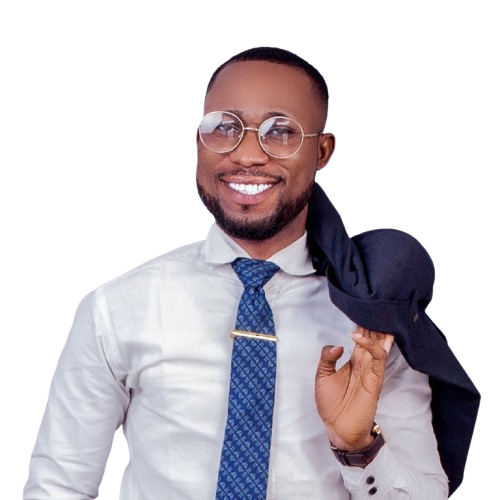
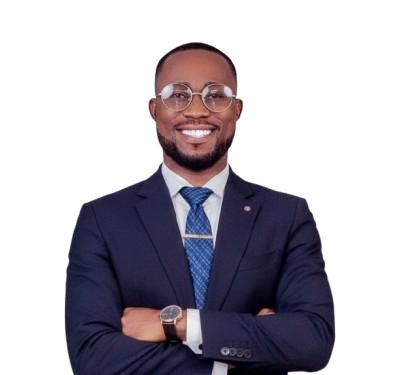
Speaker photo update

diff --git a/src/constants/index.js b/src/constants/index.js
@@ -5,7 +5,7 @@ import youtubeIcon from "../assets/youtubelogo.png";
 import whatsappIcon from "../assets/whatsapplogo.png";
 import JD from "../assets/home/Jesudamilare.png";
 import bello from "../assets/home/bello.png";
-import taiwo from "../assets/home/taiwo.jpg";
+import taiwo from "../assets/home/taiwo.png";
 import Oluwaseun from "../assets/home/oluwaseun.png";
 import simisolaA from "../assets/home/SimisolaA.png";
 import blessingD from "../assets/home/blessing-dada.png";
@@ -16,7 +16,7 @@ import VIP from "../assets/home/VIP.png";
 import VVIP from "../assets/home/VVIP.png";
 import EKSG from "../assets/home/EKSG.png";
 import Alluvium from "../assets/home/Alluvium.png";
-import HIC from "../assets/home/hic.jpg";
+import HIC from "../assets/home/hic.png";
 import tpc from "../assets/home/tpc.png";
 
 
@@ -66,11 +66,13 @@ export const SpeakerArray = [
     name: "Jesudamilare Adesegun-David",
     position: "CEO, Ennovate Lab",
     image: JD,
+    bio: "Jesudamilare JD AdesegunDavid is a Thought Alchemist and Community Transformation Strategist. He is the cofounder and CEO of Ennovate Lab, an innovation hub and startup foundry building resilient innovation ecosystems in underserved university communities across Africa.Through Qeola, he helps visionary founders craft timeless brands and digital experiences. His flagship initiative, Cognessay, has equipped over 10000 Africans including students, educators, professionals and government officials with critical and creative thinking skills since 2018.JD cofounded Children that Change the World, a nonprofit providing inclusive educational resources for underserved children. A 2011 Agronomy graduate and 2015 Teach With Africa Fellow, he bridges diverse disciplines to drive impact.Recognized on YNaijas 2019 New Establishment List, he has mentored hundreds of entrepreneurs through partnerships with GIZ, Hult Foundation, Startup Grind and others. He serves on boards including SprinNG Literary Society and DeepSpace, and holds fellowships with We Will Lead Africa and Praxis Academy Redemptive Business.Married to Temitayo, they have three boys and one girl.",
   },
   {
     name: "Blessing Dada",
     position: "Executive Director at Sarafacdi",
     image: blessingD,
+    bio: "Blessing Tunde Dada is an Educational Development Practitioner, Innovator, social entrepreneur, and digital equity advocate committed to transforming underserved communities through inclusive education and technology. He currently serves as a UNESCO SDG4 Youth and Student Network as African Representative and now High-Level Steering Committee (HLSC) Youth Leader (Global), contributing to global policy conversations on the future of education. Blessing is a 2023 Chevening Scholar and holds an MA in International Education and Development from the University of Sussex, where he championed student-centered policies benefiting over 5,000 international students. For more than six years, he has served in various leadership capacities such as OneUK, CYFI, YALI Network, GOTNI Fellow, Global Peace Chain, and many more. His work has focused on addressing systemic barriers to education, digital access, and youth empowerment. He is the founder of Slum & Rural Aid for African Child Development Initiative (SARAFACDI) and co-founder of GenexTED, an edtech initiative that leverages AI and digital tools to bridge the digital divide. Through impactful programs like Back2School, TechUpRuralGirls, and SabiLearn Ecosystem, he has reached over 20,000 children and youth with digital literacy, STEM training, scholarships, and community development opportunities.With lived experience as his driving force, Blessing is dedicated to building a world where every child, regardless of background, can learn, thrive, and access meaningful opportunities.",
   },
   {
     name: "Oladele Bello",
@@ -88,6 +90,7 @@ export const SpeakerArray = [
     name: "Awe Similoluwa",
     position: "Lawyer",
     image: simisolaA,
+    bio: "Similoluwa Awe is a Lawyer and Youth Development Practitioner with 9 years of professional excellence, purpose fulfillment and passion accomplishment. She is the founder of Hey! Teens and Twenties and a multi-award winner to attest to her all round impact in making the global goal tagged Agenda 2030 achievable.She has a background in law, specialising in legal advisory and compliance for startups and general commercial firms, real estate also with key interest in Medical Law and Ethics. Being a passionate writer, Similoluwa has written a lot of transformational write-ups for youth development and the nation's growth. She is the author of the books Writers' Love Language and Everything Ekiti, born out of her passion for her home country, which addresses history, politics, tourism, and entertainment amongst others. As a former member of the United Nations Population Funds Youth Participatory Platform, aSustainable Development Goals Champion, Member Advisory Committee for the Knowledge Transfer Network UK, African Innovation Action plan for Ekiti state, Member Wrapper Tribe of the Wrapper Network, she has been able to contribute her voice in harnessing and attaining the nation's full potential.Notable amongst her numerous awards include winning a medal of honour and recognition for her impact in Sustainable Development Goals in 2019 by Ekiti state government, the Global Strategic Leadership Award by the Salem Open University in 2025, the Freshwater African Youth Foundation Award of Recognition in 2021, the One Ekiti Award for Advocacy in 2020, One million naira 1st prize for JKF post-graduate essay in 2022 amongst others. Through her personal projects and volunteering, she has reached out and impacted not less than 6000 young persons over the years and her passion and tenacity remains unwithered.",
   },
   {
     name: "Lawrence Ekundayo",
@@ -105,6 +108,7 @@ export const SpeakerArray = [
     name: "Taiwo Ojo",
     position: "CEO/Co-Founder, Alluvium",
     image: taiwo,
+    bio: "Taiwo Ojo, was a Big Four consultant, turned technology leader, with experience going on two decades in IT Service Management, Digital transformation, and AI governance.As CEO of Alluvium, he has led some of the largest Atlassian tool consolidations, delivering agility, scale, and cost savings for global enterprises.Passionate about responsible AI, he helps organizations innovate securely while protecting sensitive data and maintaining their competitive edge in the AI-driven economy.Beyond the boardroom, he believes in the power of human connection and is always happy to exchange ideas over breakfast, lunch, or dinner.Taiwo also thrives on Philantropy. He’s President of the JayTee Ojo Foundation which uses IT and Sports as a vehicle to make the young person globally competitive.",
   },
 ];
 

diff --git a/src/components/SpeakerModal.jsx b/src/components/SpeakerModal.jsx
@@ -22,40 +22,47 @@ const SpeakerModal = ({ speaker, onClose }) => {
       className="fixed inset-0 z-50 flex items-center justify-center bg-black/70 px-4 py-8"
     >
       <div
-        className="relative max-w-4xl w-full bg-black border border-white/10 rounded-lg shadow-xl overflow-hidden"
-        style={{ maxHeight: "80vh" }}
+        className="relative max-w-4xl w-full bg-black border border-white/10 rounded-lg shadow-xl flex flex-col md:flex-row"
+        style={{ maxHeight: "85vh" }} // slightly more breathing room
       >
+        {/* Close Button */}
         <button
           onClick={onClose}
           aria-label="Close speaker modal"
-          className="absolute top-4 right-4 z-40 bg-red-600 hover:bg-red-700 text-white p-2 rounded-full shadow-md border border-white/20"
+          className="absolute top-4 right-4 z-50 bg-red-600 hover:bg-red-700 text-white p-2 rounded-full shadow-md border border-white/20"
         >
-          <svg xmlns="http://www.w3.org/2000/svg" className="h-4 w-4" viewBox="0 0 20 20" fill="currentColor">
-            <path fillRule="evenodd" d="M10 8.586l4.95-4.95a1 1 0 111.414 1.414L11.414 10l4.95 4.95a1 1 0 01-1.414 1.414L10 11.414l-4.95 4.95a1 1 0 01-1.414-1.414L8.586 10 3.636 5.05A1 1 0 015.05 3.636L10 8.586z" clipRule="evenodd" />
+          <svg xmlns="http://www.w3.org/2000/svg" className="h-5 w-5" viewBox="0 0 20 20" fill="currentColor">
+            <path
+              fillRule="evenodd"
+              d="M10 8.586l4.95-4.95a1 1 0 111.414 1.414L11.414 10l4.95 4.95a1 1 0 01-1.414 1.414L10 11.414l-4.95 4.95a1 1 0 01-1.414-1.414L8.586 10 3.636 5.05A1 1 0 015.05 3.636L10 8.586z"
+              clipRule="evenodd"
+            />
           </svg>
         </button>
 
-        <div className="flex flex-col md:flex-row h-full">
-          <div className="md:w-1/2 w-full flex-shrink-0 h-56 md:h-full overflow-hidden flex items-center justify-center bg-black">
-            <img
-              src={speaker.image}
-              alt={speaker.name}
-              className="w-full h-full object-contain object-center"
-              style={{ maxHeight: '70vh' }}
-            />
-          </div>
+        {/* Image Side - Fixed */}
+        <div className="w-full md:w-1/2 flex-shrink-0 bg-black flex items-center justify-center overflow-hidden">
+          <img
+            src={speaker.image}
+            alt={speaker.name}
+            className="w-full h-full object-contain"
+          />
+        </div>
 
-          <div className="md:w-1/2 w-full p-6 flex flex-col overflow-y-auto">
+        {/* Content Side - Scrollable Bio */}
+        <div className="w-full md:w-1/2 flex flex-col h-full md:h-auto">
+          <div className="p-6 flex-shrink-0">
             <h2 className="text-3xl font-bricolage text-white mb-2">{speaker.name}</h2>
             <p className="text-lg font-hupaisa text-white/80 mb-4">{speaker.position}</p>
+          </div>
 
-            <div className="text-white/90 text-base">
-              {speaker.bio ? (
-                <p className="whitespace-pre-line">{speaker.bio}</p>
-              ) : (
-                <p>No biography available.</p>
-              )}
-            </div>
+          {/* Scrollable Bio Area */}
+          <div className="flex-1 overflow-y-auto px-6 pb-6 text-white/90 text-base leading-relaxed">
+            {speaker.bio ? (
+              <p className="whitespace-pre-line">{speaker.bio}</p>
+            ) : (
+              <p className="italic text-white/60">No biography available.</p>
+            )}
           </div>
         </div>
       </div>
